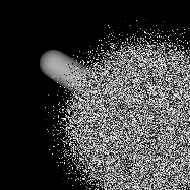
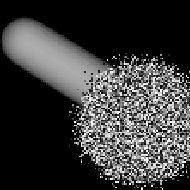
crude test of noise

diff --git a/xper-train/xper-allen/test/unit-tests/org/xper/allen/drawing/composition/noisy/LineNoiseMapperTest.java b/xper-train/xper-allen/test/unit-tests/org/xper/allen/drawing/composition/noisy/LineNoiseMapperTest.java
@@ -1,0 +1,126 @@
+package org.xper.allen.drawing.composition.noisy;
+
+import org.junit.Before;
+import org.junit.Test;
+import org.springframework.config.java.context.JavaConfigApplicationContext;
+import org.xper.alden.drawing.drawables.Drawable;
+import org.xper.allen.drawing.composition.AllenMStickSpec;
+import org.xper.allen.drawing.composition.AllenPNGMaker;
+import org.xper.allen.drawing.composition.experiment.TwobyTwoMatchStick;
+import org.xper.allen.drawing.ga.TestMatchStickDrawer;
+import org.xper.allen.drawing.composition.noisy.LineNoiseMapper;
+import org.xper.allen.noisy.NoisyTranslatableResizableImages;
+import org.xper.drawing.Context;
+import org.xper.drawing.Coordinates2D;
+import org.xper.drawing.renderer.AbstractRenderer;
+import org.xper.drawing.renderer.PerspectiveRenderer;
+import org.xper.rfplot.drawing.png.ImageDimensions;
+import org.xper.util.FileUtil;
+import org.xper.util.ResourceUtil;
+import org.xper.util.ThreadUtil;
+
+import javax.imageio.ImageIO;
+import javax.swing.*;
+import java.awt.*;
+import java.awt.image.BufferedImage;
+import java.io.File;
+import java.io.IOException;
+import java.util.Collections;
+
+import static org.xper.drawing.TestDrawingWindow.initXperLibs;
+
+public class LineNoiseMapperTest {
+
+    private String testBin;
+    private AllenPNGMaker pngMaker;
+    private TestMatchStickDrawer drawer;
+    private LineNoiseMapper lineNoiseMapper;
+
+    @Before
+    public void setUp() throws Exception {
+        initXperLibs();
+        testBin = ResourceUtil.getResource("testBin");
+
+        drawer = new TestMatchStickDrawer();
+        drawer.setup(190, 190);
+
+        lineNoiseMapper = new LineNoiseMapper();
+        lineNoiseMapper.setWidth(190);
+        lineNoiseMapper.setHeight(190);
+        lineNoiseMapper.setBackground(0); // Set background to black
+    }
+
+    @Test
+    public void testLineNoiseMatchStick() throws IOException {
+        // Generate a match stick
+        TwobyTwoMatchStick matchStick = new TwobyTwoMatchStick();
+        matchStick.setProperties(8, "SHADE");
+        matchStick.genMatchStickRand();
+
+        // Draw the original match stick
+        drawer.clear();
+        drawer.drawMStick(matchStick);
+        String imagePath = drawer.saveImage(testBin + "/original_matchstick");
+
+        // Generate line noise map
+        String noiseMapPath = lineNoiseMapper.mapNoise(matchStick, 0.5, 1, drawer.window.renderer, testBin + "/line_noise_map.png");
+
+        // Load original image and noise map
+        BufferedImage originalImage = ImageIO.read(new File(imagePath));
+        BufferedImage noiseMap = ImageIO.read(new File(noiseMapPath));
+
+        // Apply noise manually
+        BufferedImage noisyImage = applyNoise(originalImage, noiseMap);
+
+        // Save noisy image
+        ImageIO.write(noisyImage, "PNG", new File(testBin + "/noisy_matchstick.png"));
+
+        // Display noisy image (you'll need to implement this method)
+        displayImage(noisyImage);
+    }
+
+    private BufferedImage applyNoise(BufferedImage original, BufferedImage noise) {
+        int width = original.getWidth();
+        int height = original.getHeight();
+        BufferedImage result = new BufferedImage(width, height, BufferedImage.TYPE_INT_ARGB);
+
+        for (int y = 0; y < height; y++) {
+            for (int x = 0; x < width; x++) {
+                int origColor = original.getRGB(x, y);
+                int noiseColor = noise.getRGB(x, y);
+
+                // Extract alpha channel from original image
+                int alpha = (origColor >> 24) & 0xff;
+
+                // Apply noise to RGB channels
+                int red = Math.min(255, ((origColor >> 16) & 0xff) + ((noiseColor >> 16) & 0xff));
+                int green = Math.min(255, ((origColor >> 8) & 0xff) + ((noiseColor >> 8) & 0xff));
+                int blue = Math.min(255, (origColor & 0xff) + (noiseColor & 0xff));
+
+                // Combine channels
+                int newColor = (alpha << 24) | (red << 16) | (green << 8) | blue;
+                result.setRGB(x, y, newColor);
+            }
+        }
+
+        return result;
+    }
+
+
+    private void displayImage(BufferedImage image) {
+        JFrame frame = new JFrame();
+        JLabel label = new JLabel(new ImageIcon(image));
+        frame.getContentPane().add(label, BorderLayout.CENTER);
+        frame.pack();
+        frame.setDefaultCloseOperation(JFrame.EXIT_ON_CLOSE);
+        frame.setVisible(true);
+
+        // Wait for the user to close the window
+        try {
+            Thread.sleep(5000);  // Display for 5 seconds
+        } catch (InterruptedException e) {
+            e.printStackTrace();
+        }
+        frame.dispose();
+    }
+}

diff --git a/xper-train/xper-allen/src/org/xper/allen/drawing/composition/noisy/LineNoiseMapper.java b/xper-train/xper-allen/src/org/xper/allen/drawing/composition/noisy/LineNoiseMapper.java
@@ -1,0 +1,112 @@
+package org.xper.allen.drawing.composition.noisy;
+
+import org.xper.alden.drawing.renderer.AbstractRenderer;
+import org.xper.allen.drawing.composition.experiment.ProceduralMatchStick;
+import org.xper.drawing.Coordinates2D;
+
+import javax.imageio.ImageIO;
+import javax.vecmath.Point3d;
+import java.awt.*;
+import java.awt.image.BufferedImage;
+import java.io.File;
+import java.io.IOException;
+
+import static org.xper.allen.drawing.composition.noisy.GaussianNoiseMapper.convertMmToPixelCoordinates;
+import static org.xper.allen.drawing.composition.noisy.GaussianNoiseMapper.mmToPixels;
+
+public class LineNoiseMapper implements NoiseMapper{
+    private int width;
+    private int height;
+    private double background;
+
+    @Override
+    public String mapNoise(ProceduralMatchStick mStick,
+                           double amplitude,
+                           int specialCompIndx,
+                           AbstractRenderer renderer,
+                           String path) {
+        File outputFile = new File(path);
+        BufferedImage img = generateLineNoiseMapFor(mStick, width, height, amplitude, background, renderer, specialCompIndx);
+        try {
+            ImageIO.write(img, "png", outputFile);
+        } catch (IOException e) {
+            throw new RuntimeException(e);
+        }
+        return outputFile.getAbsolutePath();
+    }
+
+    public static BufferedImage generateLineNoiseMapFor(ProceduralMatchStick mStick,
+                                                        int width, int height,
+                                                        double amplitude, double background,
+                                                        AbstractRenderer renderer, int specialCompIndx) {
+        Point3d noiseOrigin = mStick.calculateNoiseOrigin(specialCompIndx);
+        Coordinates2D noiseOriginPixels = convertMmToPixelCoordinates(noiseOrigin, renderer);
+
+        // You might want to add parameters to ProceduralMatchStick for these values
+        double lineAngle = 0; // Horizontal line
+        double lineOffset = noiseOriginPixels.getY() - height/2; // Offset from center
+        boolean aboveLine = true; // Noise above the line
+
+        return generateLineNoiseMap(width, height, lineAngle, lineOffset, amplitude, background, aboveLine);
+    }
+
+    public static BufferedImage generateLineNoiseMap(int width, int height,
+                                                     double lineAngle, double lineOffset,
+                                                     double noiseLevel, double background,
+                                                     boolean aboveLine) {
+        BufferedImage noiseMap = new BufferedImage(width, height, BufferedImage.TYPE_INT_ARGB);
+
+        // Convert the background and noiseLevel values to a 0-255 range for the red component
+        int backgroundRed = (int) (Math.min(background, 1.0) * 255);
+        int noiseLevelRed = (int) (Math.min(noiseLevel, 1.0) * 255);
+
+        double angleRad = Math.toRadians(lineAngle);
+        double cosAngle = Math.cos(angleRad);
+        double sinAngle = Math.sin(angleRad);
+
+        // Calculate the line's normal vector
+        double normalX = -sinAngle;
+        double normalY = cosAngle;
+
+        for (int y = 0; y < height; y++) {
+            for (int x = 0; x < width; x++) {
+                // Calculate the signed distance from the point to the line
+                double distance = (x - width/2) * normalX + (y - height/2) * normalY - lineOffset;
+
+                // Determine if this point is on the specified side of the line
+                boolean isOnSpecifiedSide = (aboveLine && distance > 0) || (!aboveLine && distance < 0);
+
+                int redValue = isOnSpecifiedSide ? noiseLevelRed : backgroundRed;
+
+                // Set the pixel color in the noise map
+                Color color = new Color(redValue, 0, 0, 255);
+                noiseMap.setRGB(x, y, color.getRGB());
+            }
+        }
+        return noiseMap;
+    }
+
+    public int getWidth() {
+        return width;
+    }
+
+    public void setWidth(int width) {
+        this.width = width;
+    }
+
+    public int getHeight() {
+        return height;
+    }
+
+    public void setHeight(int height) {
+        this.height = height;
+    }
+
+    public double getBackground() {
+        return background;
+    }
+
+    public void setBackground(double background) {
+        this.background = background;
+    }
+}

diff --git a/xper-train/xper-allen/src/org/xper/allen/drawing/composition/noisy/GaussianNoiseMapper.java b/xper-train/xper-allen/src/org/xper/allen/drawing/composition/noisy/GaussianNoiseMapper.java
@@ -59,7 +59,7 @@ public class GaussianNoiseMapper implements NoiseMapper {
 
     }
 
-    private static double mmToPixels(AbstractRenderer renderer, double degrees) {
+    static double mmToPixels(AbstractRenderer renderer, double degrees) {
         Coordinates2D pixels = renderer.mm2pixel(new Coordinates2D(degrees, degrees));
         return pixels.getX();
 
@@ -97,7 +97,7 @@ public class GaussianNoiseMapper implements NoiseMapper {
         );
     }
 
-    private static Coordinates2D convertMmToPixelCoordinates(Point3d point3d, AbstractRenderer renderer) {
+    public static Coordinates2D convertMmToPixelCoordinates(Point3d point3d, AbstractRenderer renderer) {
         Coordinates2D world_x_y = renderer.coord2pixel(new Coordinates2D(point3d.x, point3d.y));
 
         double scaledX = world_x_y.getX();
